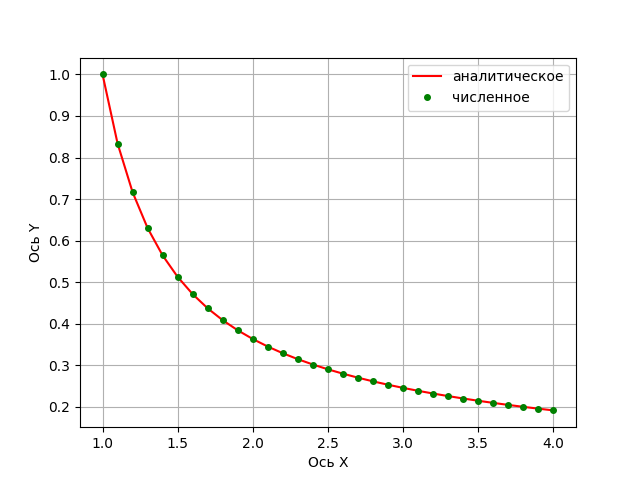
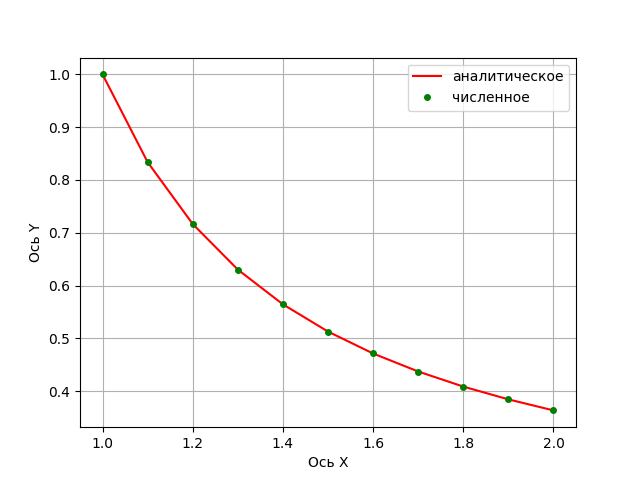
fix runge rule

diff --git a/Runge-Kutta/painter.py b/Runge-Kutta/painter.py
@@ -20,11 +20,12 @@ def runge_kutta(x: float, y: float, fxy: str, h: float) -> float:
 
 def runge_rule(h, x, y, fxy):
     yh = runge_kutta(x, y, fxy, h)
-    yh2 = runge_kutta(x, y, fxy, h/2)
+    yh2 = runge_kutta(x + h/2, y, h/2)
 
     return abs(yh2 - yh) / 15
 
 def draw_graphic(a, b, step, y0, epsilon, fxy, yx):
+    #print("start", step)
     fig, ax = plt.subplots()
 
     x = np.arange(a, b + step, step)
@@ -33,21 +34,36 @@ def draw_graphic(a, b, step, y0, epsilon, fxy, yx):
     plt.grid()
 
     y_appr = np.zeros(len(x))
+    yh2 = np.zeros(2*len(x))
+    yh2[0] = y0
     y_appr[0] = y0
     h = step
 
     i = 1
     while i < len(x):
-        if runge_rule(h, x[i-1], y_appr[i-1], fxy) >= epsilon:
-            i = 1
-            h /= 2
-            x = np.arange(a, b+step, h)
-            y_appr = np.zeros(len(x))
-            y_appr[0] = y0
-            continue
+        #print(y_appr[i-1], yh2[2*i-2])
 
         y_appr[i] = runge_kutta(x[i-1], y_appr[i-1], fxy, h)
+        yh2[2*i-1] = runge_kutta(x[i-1], yh2[2*i-2], fxy, h/2)
+        yh2[2*i] = runge_kutta(x[i-1] + h/2, yh2[2*i-1], fxy, h/2)
+
+        if abs(y_appr[i] - yh2[2*i]) / 15 >= epsilon:
+            i = 1
+            h /= 2
+            x = np.arange(a, b + h, h)
+            y_appr = np.zeros(len(x))
+            yh2 = np.zeros(2*len(x))
+            yh2[0] = y0
+            y_appr[0] = y0
+
+            continue
+        
+
         i += 1
+    
+    y_appr = yh2
+    h /= 2
+    x = np.arange(a, b + h, h)
 
     plt.plot([x[i] for i in range(0, len(x), int(step / h))], [y_appr[i] for i in range(0, len(x), int(step / h))],\
               'go', markersize=4, label="численное")
@@ -56,5 +72,7 @@ def draw_graphic(a, b, step, y0, epsilon, fxy, yx):
     ax.set_ylabel("Ось Y")
     plt.legend()
     plt.savefig("Runge-Kutta/graphic.png")
+
+    #print(h)
 
     return h, x, y_exact, y_appr
